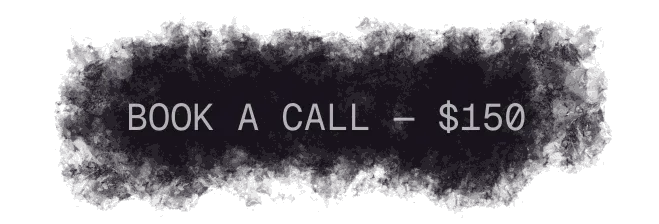
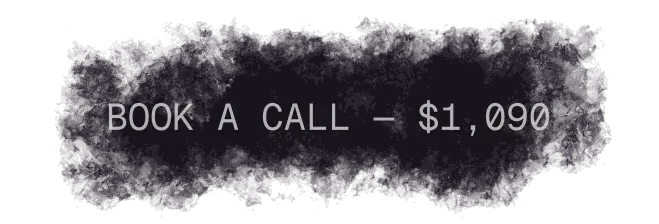
Add copy about the call

Changed region(s): [[0.091, 0.0938, 0.5766, 0.5938], [0.5766, 0.4375, 0.8498, 0.5938]]

diff --git a/door/index.html b/door/index.html
@@ -194,16 +194,38 @@
             </div>
         </section> -->
 
+        <section class="frame text-frame">
+            <p>Alright, now let’s talk details.</p>
+
+            <p>The vignettes above are bits and pieces of my story. Your story is a different matter entirely. And yet, as I’m sure you know, there’s gold to be mined there as well—artifacts, visual grammar, parables and lore.</p>
+
+            <p>We’ll flesh it out on a call. I’ll give you homework. I won’t grade it. You’ll show me what you currently have. I’ll evaluate it. We’ll talk on Google Meet for an hour. It will not go longer. I’ll give you an assessment based on the material in <em>The Temple Papers</em>.</p>
+
+            <p>You’ll talk to me about how you currently deal with Noise. I’ll keep asking questions until I have a clear idea of what’s <em>really</em> going on. I’ll find the flaws in your systems. I’ll lay it out in concrete terms so you can see what you’re doing right and what you’re doing wrong. The more honest and straightforward you are with me, the smoother it will go.</p>
+
+            <p>Please bring with you a list of Noise and Signal: representative examples of each type. This includes: social media comments, feedback from customers or audience members, stuff from people who’ve paid you money and from those who haven’t, from haters and from fans, stuff you feel good about and stuff that throws you off. I need to see it all.</p>
+
+            <p>Please also bring links/screenshots of any experiences/funnels you’ve built. Web pages. Posts. Videos. Sales pages. Appetizers. Songs. Games. Demos. Anything that leads to anything else. I need a sense of what you’ve built. The world you want people to move through.</p>
+
+            <p>During the first half of the call, you will share this material with me.</p>
+
+            <p>During the second half, I’ll try to break it. Conceptually, not physically. But please don’t book a call if you’re attached to what you already have. We will explore possibilities, ones you haven’t considered.</p>
+
+            <p>I know that sounds ominous. And it is. So do the work ahead of time, please. Do not cherry-pick. We need all kinds of random stuff on the table.</p>
+
+            <p>—Michael</p>
+        </section>
+
         <!-- Frame 12: Purchase Mechanism -->
         <section class="frame frame-action">
-            <a href="https://book.stripe.com/00w4gz8069k31Iq3rJ83C08" class="terminal-buy-link" aria-label="Book a Call — $150" id="book-a-call-btn">
+            <a href="https://book.stripe.com/14A00j2FMao70Em1jB83C0a" class="terminal-buy-link" aria-label="Book a Call — $1,090" id="book-a-call-btn">
                 <img src="assets/button-call.webp" alt="" role="presentation" class="relic-img buy-btn-img">
             </a>
         </section>
 
-        <section class="frame">
+        <section class="frame text-frame">
 
-            <p>Or, <a href="book/" class="under-btn-link" id="get-the-book-link">get the book</a>.</p>
+            <p>NOTE: The work we’ll do on the call is based on the material in <a href="book/" class="under-btn-link" id="get-the-book-link">The Temple Papers</a> ($19). You’ll benefit more from the call if you read it carefully before booking.</p>
         </section>
 
         <footer class="terminal-footer">
